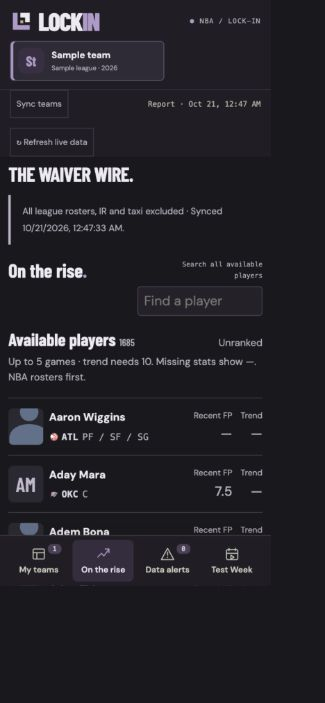
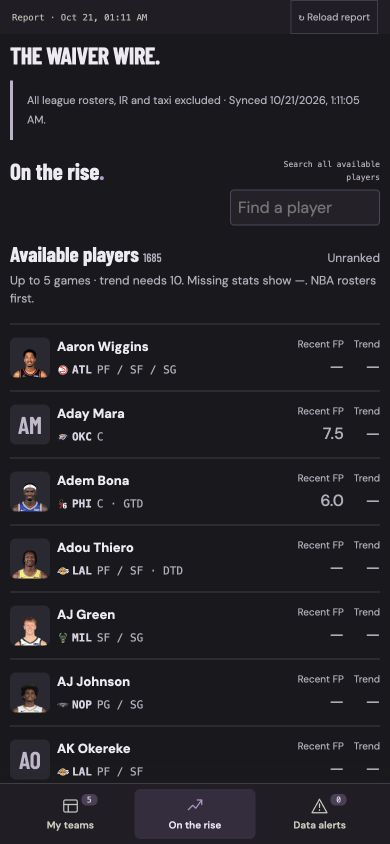
Fit compact On the Rise portraits without cropping

diff --git a/web/style.css b/web/style.css
@@ -2916,7 +2916,9 @@ button.lineup-name:hover strong { color: #c6b3d6; }
 .available-list { border-top:1px solid var(--line); }
 .available-row { display:flex; align-items:center; justify-content:space-between; gap:16px; padding:12px 0; border-bottom:1px solid var(--line); }
 .available-row .player-ident { min-width:0; }
-.available-row .portrait { width:42px; height:44px; flex:0 0 42px; }
+/* Keep directory and pickup headshots inside their compact frame at every breakpoint. */
+.available-row .portrait, .pickup-heading .portrait { width:40px; height:40px; flex:0 0 40px; border-radius:6px; }
+.available-row .portrait img, .pickup-heading .portrait img { width:100%; height:100%; max-width:100%; left:0; bottom:0; object-fit:contain; object-position:center bottom; }
 .available-row .player-name { font-size:15px; }
 .available-row .player-meta { font-size:11px; }
 .available-stats { display:flex; gap:24px; color:var(--muted); font-size:10px; text-align:right; flex-shrink:0; }

diff --git a/README.md b/README.md
@@ -204,7 +204,7 @@ For a selected player, `per_player_week_decision()` in [decide.py](decide.py) fo
 5. Start the lock score at `1 - p_future_beats`, then apply rarity, small-sample, remaining-opportunity, and optional conservative-mode adjustments. Clamp to `[0, 1]`; scores at least `0.5` become `LOCK`. Those adjustments make the final value a heuristic preference, not a calibrated probability.
 6. Return the score, baseline, opportunities, history, and explanation. The engine withholds actionable output when league scoring is incomplete. The user acts in Sleeper, or banks the score locally in Test Week.
 
-**On the rise** also lists unrostered players from the complete league ownership snapshot, including reserves and taxi exclusions. Search covers the entire available pool; rows load in batches of 30, with NBA-assigned players first. Unranked players show their observed mean from up to five games when available and dashes for missing analysis, without becoming pickup recommendations. The dated directory remains visible if recommendations expire.
+**On the rise** also lists unrostered players from the complete league ownership snapshot, including reserves and taxi exclusions. Search covers the entire available pool; rows load in batches of 30, with NBA-assigned players first. Unranked players show their observed mean from up to five games when available and dashes for missing analysis, without becoming pickup recommendations. Compact 40px portraits show the full headshot on desktop and mobile. The dated directory remains visible if recommendations expire.
 
 ![Available-player directory on mobile](docs/screenshots/available-players-mobile.png)
 

diff --git a/docs/screenshots/README.md b/docs/screenshots/README.md
@@ -96,4 +96,4 @@ Verified browser interactions include lineup-to-player detail links, excluded-pl
 
 These use an isolated in-memory configuration, not personal team names or account settings. The earlier daily-lineup and team-insights screenshots predate per-row projected stat lines; retain them only as demonstrations of their specific features. Current-season projections are estimates, not observed scores or verified prediction accuracy.
 
-- `available-players-desktop.png` and `available-players-mobile.png`: current charcoal/plum theme, generic team labels, history-independent unrostered-player directory with observed averages where available and empty trend placeholders. Public NBA identities only; no personal team photos or account details.
+- `available-players-desktop.png` and `available-players-mobile.png`: current charcoal/plum theme, generic team labels, history-independent unrostered-player directory with compact, uncropped 40px portraits, observed averages where available and empty trend placeholders. Public NBA identities only; no personal team photos or account details.
